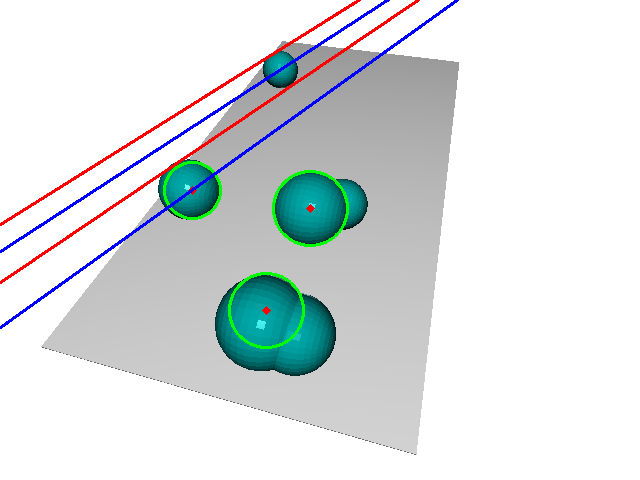
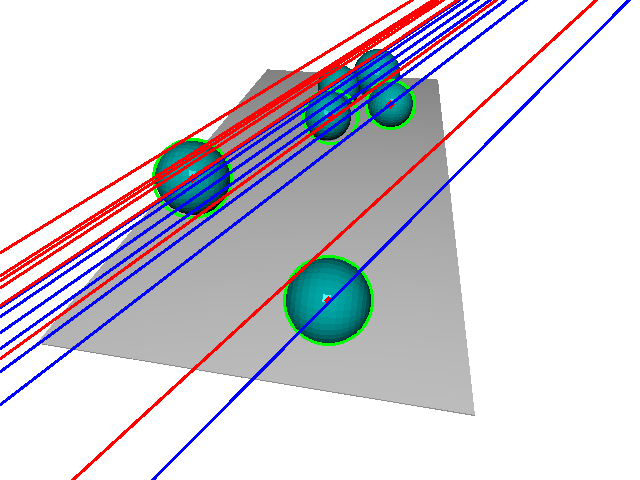
test

diff --git a/CWII2324-v2.py b/CWII2324-v2.py
@@ -89,7 +89,7 @@ def findCircles(img, imageNumber):
     img_gray = cv2.equalizeHist(img_gray)
     blur = cv2.medianBlur(img_gray, 5)
 
-    circles = cv2.HoughCircles(blur, cv2.HOUGH_GRADIENT, dp=1, minDist=10, param1=50, param2=20, minRadius=10,
+    circles = cv2.HoughCircles(blur, cv2.HOUGH_GRADIENT, dp=1, minDist=15, param1=50, param2=17, minRadius=10,
                                maxRadius=100)
 
     centers = []
@@ -365,7 +365,7 @@ if __name__ == '__main__':
     epipolarLinesR = []
     for point in circles_center0:
         homogeneous_point = np.array([point[0], point[1], 1])
-        homogeneous_pointR = np.array([point[0] , point[1]- point[2], 1])
+        homogeneous_pointR = np.array([point[0], point[1] - point[2], 1])
 
         epipolar_line = np.dot(F, homogeneous_point)
         epipolar_lineR = np.dot(F, homogeneous_pointR)
@@ -388,7 +388,7 @@ if __name__ == '__main__':
         x0, x1 = 0, img1.shape[1] - 1
         y0 = int((-c - a * x0) / b)
         y1 = int((-c - a * x1) / b)
-        epipolarLinesR.append((a, b, c, (point[0], point[1] - point[2])))
+        epipolarLinesR.append((a, b, c, point))
 
         epipolar_line_image = cv2.line(img1, (x0, y0), (x1, y1), (0, 0, 255), 2)
         new = cv2.circle(img0, (point[0], point[1] - point[2]), 1, (0, 0, 0), 2)
@@ -409,22 +409,9 @@ if __name__ == '__main__':
     '''
     ###################################
     match = []
-    matchR = []
     lines = len(epipolarLines)
-    linesR = len(epipolarLinesR)
     for circle in circles_center1:
         distances = []
-        for theta in range(0,360):
-            xr = circle[0] + circle[2]* np.cos(np.radians(theta))
-            yr = circle[0] + circle[2] * np.sin(np.radians(theta))
-            for n in range(linesR) :
-                distance = abs(xr * epipolarLinesR[n][0] + yr * epipolarLinesR[n][1] + epipolarLinesR[n][2])
-
-
-
-
-
-
         for n in range(lines):
             first_circle = epipolarLines[n][3]
 
@@ -454,6 +441,31 @@ if __name__ == '__main__':
     cv2.imwrite("match0.png", match0)
     cv2.imwrite("match1.png", match1)
 
+    matchR = []
+    for a, b, c, point in epipolarLinesR:
+
+        matchedpoint = point
+        for lc, rc, d in match:
+            if lc == point:
+                matchedpoint = rc
+        distances = []
+        for theta in range(0, 360):
+            x0 = matchedpoint[0] + matchedpoint[2] * np.cos(np.radians(theta))
+            y0 = matchedpoint[1] + matchedpoint[2] * np.sin(np.radians(theta))
+            possible_R = (x0, y0)
+            dis = abs(a * x0 + b * y0 + c) / (a ** 2 + b ** 2) ** 0.5
+            distances.append((possible_R, dis))
+        mind = sys.maxsize
+        bestpoint = matchedpoint
+
+        for pR, dR in distances:
+
+            if dR < mind:
+                mind = dR
+                bestpoint = pR
+
+        matchR.append(((point[0], point[1] - point[2]), bestpoint))
+
     ###################################
     '''
     Task 6: 3-D locations of sphere centres
@@ -466,7 +478,7 @@ if __name__ == '__main__':
 
     for lc, rc, _ in match:
         P = triangulate_point2(np.array([lc[0], lc[1]]), np.array([rc[0], rc[1]]), H0_wc, H1_wc, K.intrinsic_matrix)
-        print(P)
+
         if -12 * 1.2 <= P[0] <= 12 * 1.2 and 1 * 0.8 <= P[1] <= 1.6 * 1.2 and -6 * 1.2 <= P[2] <= 6 * 1.2:
             spheres_3D_world.append(P)
 
@@ -481,13 +493,10 @@ if __name__ == '__main__':
     pcd_est_cents = o3d.geometry.PointCloud()
     pcd_est_cents.points = o3d.utility.Vector3dVector(np.array(spheres_3D_world)[:, :3])
     pcd_est_cents.paint_uniform_color([0., 0., 1.])
+
     # Add the point clouds to the visualization
     vis = o3d.visualization.Visualizer()
-    print("--------")
-    print(np.asarray(pcd_GTcents.points))
-    print("--------")
-    print(np.asarray(pcd_est_cents.points))
-    print("--------")
+
     vis.create_window(width=640, height=480, left=0, top=0)
     for m in [obj_meshes[0], pcd_GTcents]:
         vis.add_geometry(m)
@@ -503,6 +512,14 @@ if __name__ == '__main__':
     Write your code here
     '''
     ###################################
+    radius_3D_world = []
+
+    for lr, rr in matchR:
+        P = triangulate_point2(np.array([lr[0], lr[1]]), np.array([rr[0], rr[1]]), H0_wc, H1_wc, K.intrinsic_matrix)
+
+        if -12 * 2 <= P[0] <= 12 * 2 and 1 * 0.25 <= P[1] <= 1.6 * 2 and -6 * 2 <= P[2] <= 6 * 2:
+            radius_3D_world.append(P)
+    print(np.asarray(radius_3D_world))
 
     ###################################
     '''
@@ -511,6 +528,35 @@ if __name__ == '__main__':
     Write your code here:
     '''
     ###################################
+    vis = o3d.visualization.Visualizer()
+
+    vis.create_window(width=640, height=480, left=0, top=0)
+    vis.add_geometry(obj_meshes[0])
+    for cen in np.asarray(pcd_GTcents.points):
+        sphere = o3d.geometry.TriangleMesh.create_sphere(radius=cen[1])
+        sphere.translate(cen)
+        sphere.paint_uniform_color([0., 0., 0.])
+        vis.add_geometry(sphere)
+
+    for c3D in spheres_3D_world:
+        for r3D in radius_3D_world:
+            # Create a sphere geometry at the origin
+            radius = np.linalg.norm(c3D - r3D)
+            if 1 * 0.5 <= radius <= 1.6 * 1.5:
+                sphere = o3d.geometry.TriangleMesh.create_sphere(radius=radius)
+                sphere.translate(c3D)
+                sphere_cloud = sphere.sample_points_poisson_disk(number_of_points=1000)
+
+                colors = np.asarray(sphere_cloud.colors)
+                red_color = [1, 0, 0]  # Red color
+                colors = np.tile(red_color, (colors.shape[0], 1))
+
+                # Update the colors of the point cloud
+                sphere_cloud.colors = o3d.utility.Vector3dVector(colors)
+                vis.add_geometry(sphere_cloud)
+
+    vis.run()
+    vis.destroy_window()
 
     ###################################
     '''
